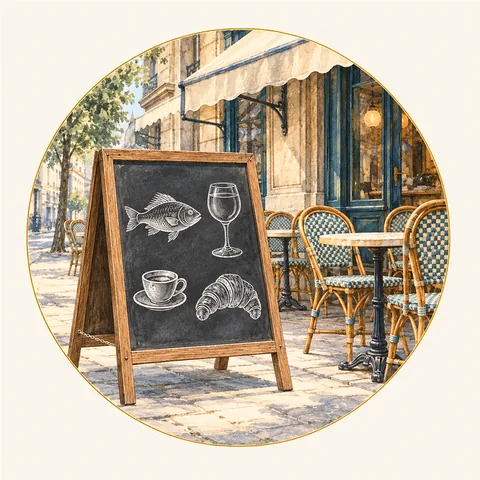
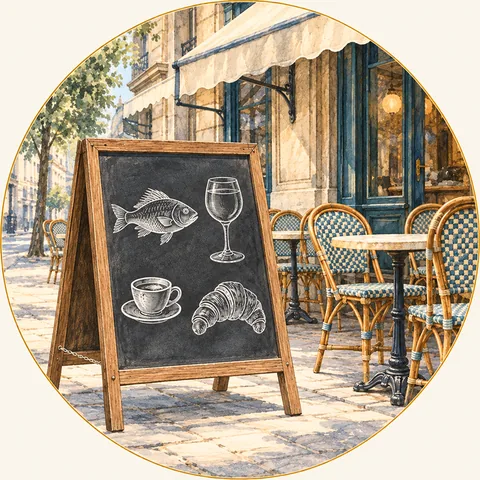
第 6 版レビュー 3 回目: ダークの金を消す、レッスン中の名画の帯を低く、地図の駅名を 1 枚の紙に・地図の金の輪を隠す、進み具合の印から番号を外す、美術館の額を絵に沿わせる、紙の地紋を薄く、フレーズの操作を罫と文字に

diff --git a/assets/css/style.css b/assets/css/style.css
@@ -1743,3 +1743,45 @@ h1,h2,h3,.vh h1{letter-spacing:.02em}
 .jm-lb b,.jm-pt.todo .jm-lb b{color:#2B2824}
 .jm-lb i{color:#4F4941}
 .jm-here{background:#2B2824!important;color:#F4EFE5!important}
+
+/* ---------- 第 6 版・レビュー 3 回目 ---------- */
+/* ダークでも金を残さない（古いダークの --gilt 定義より詳細度を上げる） */
+@media (prefers-color-scheme:dark){:root:not([data-theme="light"]){--gilt:var(--muted);--gilt-2:var(--line-gray)}}
+:root[data-theme="dark"]{--gilt:var(--muted);--gilt-2:var(--line-gray)}
+/* 大きな文字: 絵の上の白い小見出しの下を深く暗くする */
+html[data-size="lg"] .aff-art::after{background:linear-gradient(180deg,rgba(10,8,6,.6),rgba(10,8,6,.25) 40%,rgba(10,8,6,0) 60%)}
+/* 挿絵に描き込まれた金の輪は見せず、輪は CSS の罫で付ける */
+.medal img{transform:scale(1.06)}
+/* 美術館: 額は絵に沿わせて余白を均一に、行の下をそろえる */
+.mu-grid{align-items:end}
+.mu-im{aspect-ratio:auto;padding:6px}
+.mu-im img{height:auto;object-fit:fill}
+/* レッスン中: 名画の帯は低く（学ぶ文を上へ。大きく鑑賞するのは到着の画面） */
+.stage-body > .stband.art{flex:0 0 auto;height:120px;min-height:0;max-height:none}
+/* 地図: 和文と仏語を 1 枚の紙にまとめる */
+.jm-lb{background:rgba(244,239,229,.88);padding:2px 7px 3px}
+.jm-lb b,.jm-lb i{background:none;padding:0}
+/* 進み具合の自分の印は番号なしの点（人の路線番号「4」と問題・駅の番号を混同させない） */
+.lr-me,.ride-me{font-size:0;width:14px;height:14px;margin-left:-7px}
+.ride-me{left:calc(50% - 7px);top:16px;margin-left:0}
+/* ホームの駅番号は小さな進み具合の情報に */
+.aff-no{font-size:1.75rem}
+html[data-size="lg"] .aff-no{font-size:1.5rem}
+.aff-no::before{content:"駅 ";font-family:var(--jp);font-size:.75rem;color:var(--muted)}
+/* 紙の地紋を薄く（広い余白で斑点が続かないように） */
+body,.stage{background-image:linear-gradient(rgba(244,239,229,.6),rgba(244,239,229,.6)),url(../img/il/paper.webp);background-size:auto,512px 512px}
+:root[data-theme="dark"] body,:root[data-theme="dark"] .stage{background-image:none}
+@media (prefers-color-scheme:dark){:root:not([data-theme="light"]) body,:root:not([data-theme="light"]) .stage{background-image:none}}
+/* 保存の星は墨 */
+.fav.on{color:var(--ink)}
+/* フレーズ一覧の操作: 箱と黒塗りをやめ、上の罫と区切りの細線、文字とアイコンだけ */
+.ph-act{border:0;border-top:1px solid var(--line-gray);border-radius:0}
+.ph-act .tool.say{background:none;color:var(--ink)}
+.note,.lcard .note{box-shadow:none;padding:4px 0}
+/* 会話の絵の見出しもほかと同じ斜体に、署名に重ならない上側へ */
+.wall-poster figcaption{top:12px;bottom:auto;font-family:var(--bo);font-style:italic;font-weight:400;font-size:1.125rem;letter-spacing:0}
+.wall-poster .photo::after{background:linear-gradient(0deg,transparent 50%,rgba(8,12,24,.55))}
+.lr-me{top:7px}
+.stband.art .sb-t{gap:4px}
+.jm-pt{width:calc(120 / 620 * 100%)}
+.jm-pt.todo .medal{opacity:1;filter:grayscale(.9) sepia(.12) contrast(.78) brightness(1.1)}

diff --git a/sw.js b/sw.js
@@ -1,5 +1,5 @@
 /* tools/gen-sw.mjs が生成する。手で編集しない */
-const VERSION = "c60837ce419b";
+const VERSION = "66e07faf5cc9";
 const CORE = "paris-fr-" + VERSION;
 const FONTS = "paris-fr-fonts";
 const FILES = ["./","index.html","manifest.webmanifest","assets/img/icon/favicon-32.png","assets/img/icon/apple-touch-icon.png","assets/css/style.css","data/phrases.js","data/listen.js","data/pron.js","data/days.js","data/dialogs.js","data/audio.js","data/photos.js","assets/js/srs.js","assets/js/numbers.js","assets/js/store.js","assets/js/core.js","assets/js/speech.js","assets/js/course.js","assets/js/lesson.js","assets/js/home.js","assets/js/phrasebook.js","assets/js/practice.js","assets/js/book.js","assets/js/family.js","assets/js/onboard.js","assets/js/pwa.js","assets/js/main.js","assets/img/icon/icon-192.png","assets/img/icon/icon-512.png","assets/img/icon/maskable-512.png","assets/img/st/a01.webp","assets/img/st/a02.webp","assets/img/st/a03.webp","assets/img/st/a04.webp","assets/img/st/a05.webp","assets/img/st/a06.webp","assets/img/st/a07.webp","assets/img/st/a08.webp","assets/img/st/a10.webp","assets/img/st/a11.webp","assets/img/st/a13.webp","assets/img/st/a14.webp","assets/img/st/a15.webp","assets/img/st/a16.webp","assets/img/st/a17.webp","assets/img/st/a18.webp","assets/img/st/a19.webp","assets/img/st/a20.webp","assets/img/st/a22.webp","assets/img/st/a23.webp","assets/img/st/a24.webp","assets/img/st/a25.webp","assets/img/st/a26.webp","assets/img/st/a27.webp","assets/img/st/a28.webp","assets/img/st/aeroport.webp","assets/img/st/bonjour.webp","assets/img/st/boutique.webp","assets/img/st/cafe.webp","assets/img/st/carte.webp","assets/img/st/comprendre.webp","assets/img/st/hotel.webp","assets/img/st/lire.webp","assets/img/st/metro.webp","assets/img/st/musee.webp","assets/img/st/paris.webp","assets/img/st/resto.webp","assets/img/st/taxi.webp","assets/img/st/urgence.webp","assets/img/st/welcome.webp","assets/img/il/m-aeroport.webp","assets/img/il/m-bonjour.webp","assets/img/il/m-boutique.webp","assets/img/il/m-cafe.webp","assets/img/il/m-carte.webp","assets/img/il/m-comprendre.webp","assets/img/il/m-hotel.webp","assets/img/il/m-lire.webp","assets/img/il/m-metro.webp","assets/img/il/m-musee.webp","assets/img/il/m-paris.webp","assets/img/il/m-resto.webp","assets/img/il/m-taxi.webp","assets/img/il/m-urgence.webp","assets/img/il/map.webp","assets/img/il/paper.webp","assets/img/il/v-carnet.webp","assets/img/il/v-family.webp","assets/img/il/v-phrases.webp","assets/img/il/v-practice.webp"];

diff --git a/assets/js/family.js b/assets/js/family.js
@@ -136,7 +136,7 @@
 
     /* 家族だからできる練習: 1 台を渡し合って、店員とお客の役で会話する（家族の画面のいちばん上） */
     const duo = el("section", "duo-cta");
-    duo.innerHTML = `<p class="eyebrow"><i class="fr-lbl" lang="fr">En famille</i> · 一緒に</p><h2>1 台を渡し合って、会話を練習</h2><p>1 人が店員、1 人がお客。カフェやホテルの場面を、家族で役を替えながら声に出します。</p>`;
+    duo.innerHTML = `<p class="eyebrow"><i class="fr-lbl" lang="fr">Ensemble</i> · 一緒に</p><h2>1 台を渡し合って、会話を練習</h2><p>1 人が店員、1 人がお客。カフェやホテルの場面を、家族で役を替えながら声に出します。</p>`;
     duo.appendChild(button("btn big board", icon("chat") + "<span>家族で会話を始める</span>", () => App.goTab("practice", "talk")));
     root.appendChild(duo);
 

diff --git a/assets/js/lesson.js b/assets/js/lesson.js
@@ -35,7 +35,7 @@
   /* カードの上辺に付ける小さな駅名標（いまどの駅のレッスンか） */
   function stband(s, label, art) {
     const b = el("div", "stband");
-    if (s && !label) { b.classList.add("art"); b.innerHTML = `${App.photo(art || s.id, "sb-art")}<span class="sb-t"><b>${s.num} 番目の駅</b><span>${esc(App.titleFr(s.fr))}</span></span>`; }
+    if (s && !label) { b.classList.add("art"); b.innerHTML = `${App.photo(art || s.id, "sb-art")}<span class="sb-t"><b>${esc(s.ja)}</b><span>${esc(App.titleFr(s.fr))}</span></span>`; }
     else b.innerHTML = `<span>${esc(App.titleFr(label || s.fr))}</span>`;
     b.setAttribute("aria-hidden", "true");
     return b;
